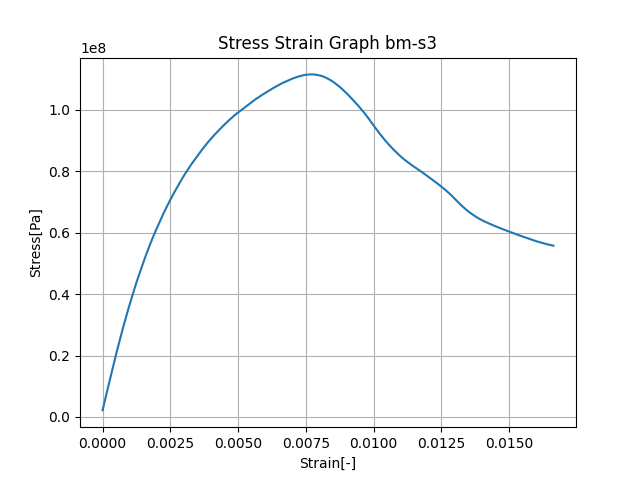
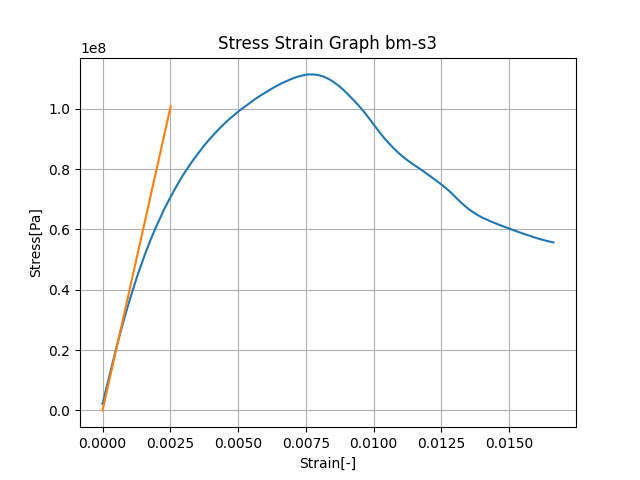
Eplotter added

diff --git a/mainV2.py b/mainV2.py
@@ -34,7 +34,7 @@ else:
 
 
 #NORMALIZING THE DATA WITH COMPLIANCE
-A = 0.015*t#m^2 change the 0.005 depending on the sample
+A = 0.015*t/1000#m^2 change the 0.005 depending on the sample
 original_l = 0.14 #m
 stress = []
 strain = []
@@ -51,9 +51,16 @@ mstrain = min(strain)
 mstrain = abs(mstrain)
 for k in range(len(strain)):
   strain[k] = strain[k]+mstrain
-#bplot_graph(strain, stress, file)
 
+#bplot_graph(x, y, file)
 
+def e_mod_plot(E):
+  x = []
+  y = []
+  for i in range(200):
+    x.append(strain[i])
+    y.append(strain[i]*E)
+  bplot_graph(strain, stress, file)
 
 #DEFINITIONS
 def calculate_ult_tens(stress):
@@ -133,7 +140,7 @@ def tangent_stiffness(strain, stress):
   def slope(x, y):
     dx = x[1] - x[0]
     dy = y[1] - y[0]
-    return dy / dx if dx != 0 else float('inf')  # Handle vertical lines
+    return dy / dx if dx != 0 else float('inf')  
     
   tangent_lines = []
   for i in range(len(strain)-1):
@@ -143,21 +150,15 @@ def tangent_stiffness(strain, stress):
     x.append(strain[i+1])
     y.append(stress[i])
     y.append(stress[i+1])
-    print(y[1]-y[0])
-    m = slope(x, y)
-    if m != float('inf'):  # Non-vertical tangent line
-      b = y[1] - m * x[1]
-      tangent_lines.append(m/(y[1]-y[0]))
-    else:  # Vertical tangent line
-      tangent_lines.append(lambda x, x1=x[1]: x1)  # Line equation: x = x1
-  plt.plot(strain[16:], tangent_lines[15:])
+    m = slope(x, y) 
+    tangent_lines.append(m)
+  plt.plot(strain[11:], tangent_lines[10:])
   plt.xlabel('Strain[-]')
-  plt.ylabel('Tangent[MPa]')
+  plt.ylabel('Tangent[Pa]')
   plt.title('Stress Strain Graph')
   plt.grid(True)
   plt.savefig('Tangents' +'.png')
-  #print(E_mod/10**9)
-  max_tan = max(tangent_lines)
+  max_tan = max(tangent_lines)/(10**9)
   return max_tan
 
 
@@ -189,4 +190,4 @@ def calculate_toughness(strain, stress):
 #pos_max_der = derivatives.index(max_der)
 #max_strain = strain[pos_max_der]
 #print(max_der/max_strain)
-print(tangent_stiffness(strain, stress))
+#print(tangent_stiffness(strain, stress))
